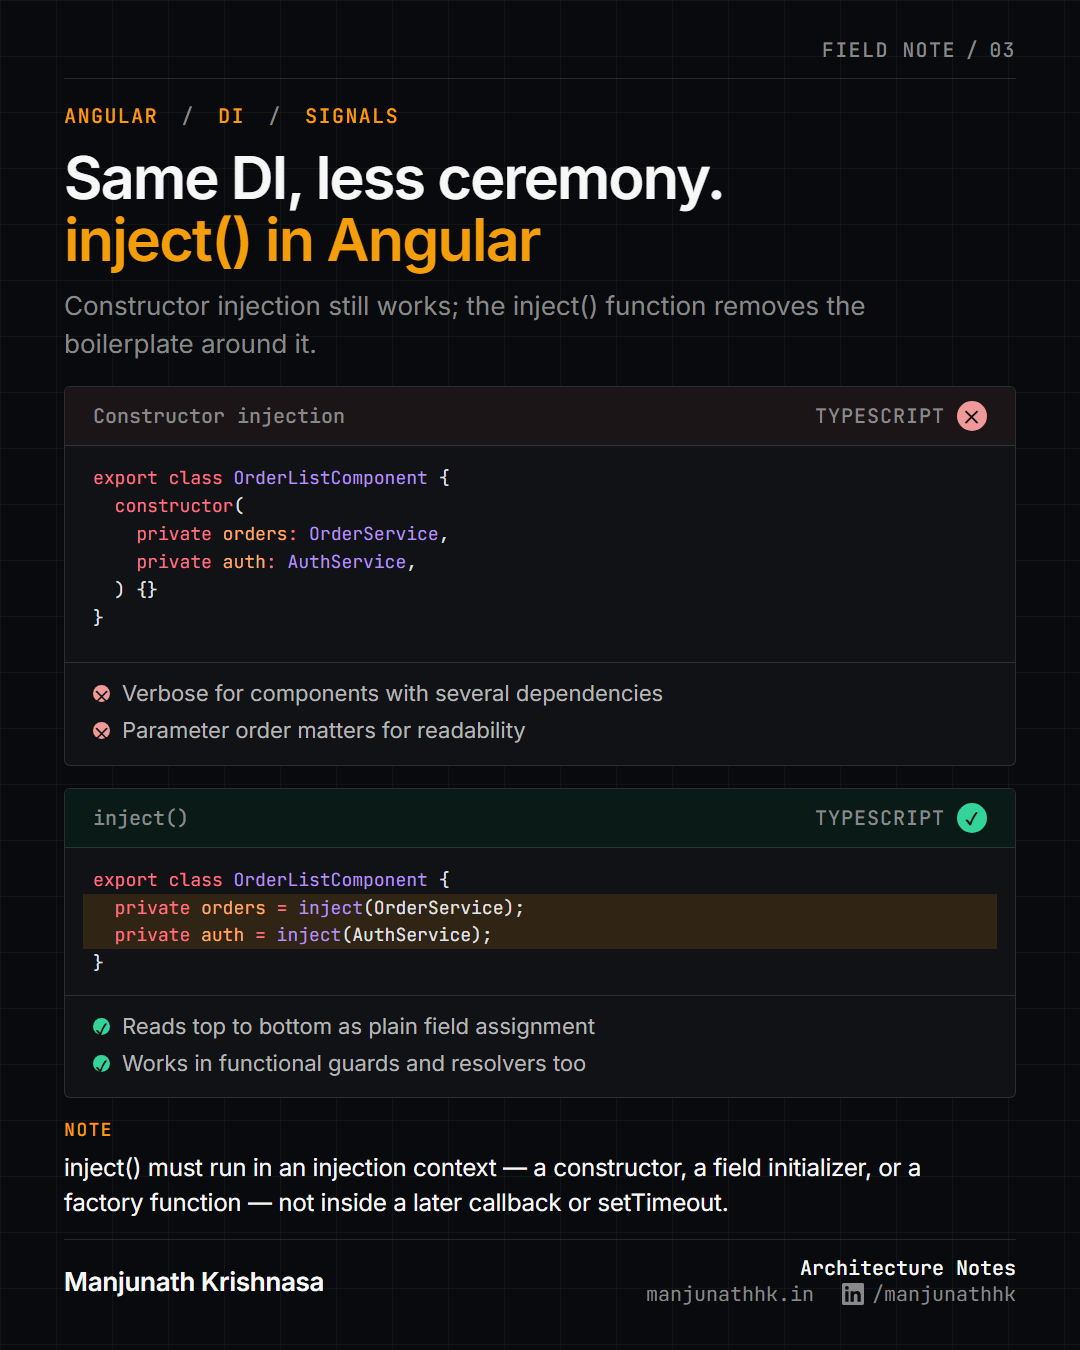
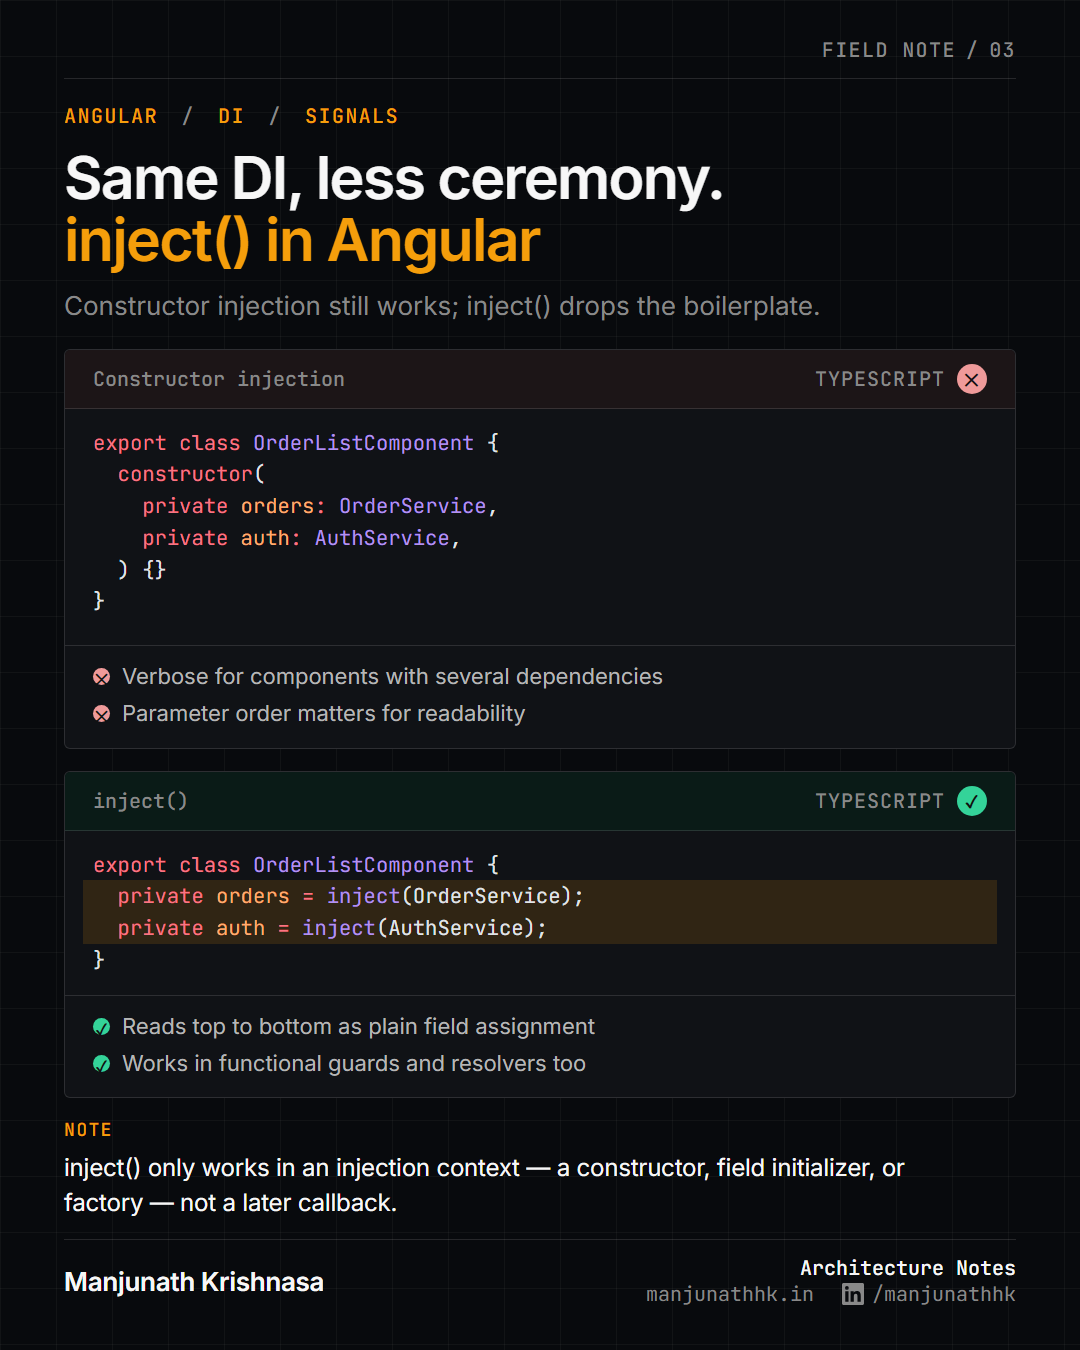
Fix angular-inject example overflowing with full branding (3.2.1) (#41)
Shorten the subtitle and insight so the code panels fit when the footer
carries series, links and the credit line.

diff --git a/examples/angular-inject.md b/examples/angular-inject.md
@@ -1,14 +1,13 @@
 ---
 title: Same DI, less ceremony.
 highlight: inject() in Angular
-subtitle: Constructor injection still works; the inject() function removes the boilerplate around it.
+subtitle: Constructor injection still works; inject() drops the boilerplate.
 tags: [Angular, DI, Signals]
 issue: '03'
 theme: dark
 sandboxLabel: stack · dark, notes
-insight: inject() must run in an injection context — a constructor, a field
-  initializer, or a factory function — not inside a later callback or
-  setTimeout.
+insight: inject() only works in an injection context — a constructor, field
+  initializer, or factory — not a later callback.
 ---
 
 ## ❌ Constructor injection

diff --git a/CHANGELOG.md b/CHANGELOG.md
@@ -2,6 +2,12 @@
 
 All notable changes to this project are documented here. The format follows [Keep a Changelog](https://keepachangelog.com/en/1.1.0/) and the project uses [Semantic Versioning](https://semver.org/).
 
+## [3.2.1] - 2026-10-05
+
+### Fixed
+
+- The "stack · dark, notes" sandbox example no longer overflows once the footer carries a full set of branding (series, links, credit line): its subtitle and insight are shorter, leaving the code panels room.
+
 ## [3.2.0] - 2026-10-05
 
 ### Added
